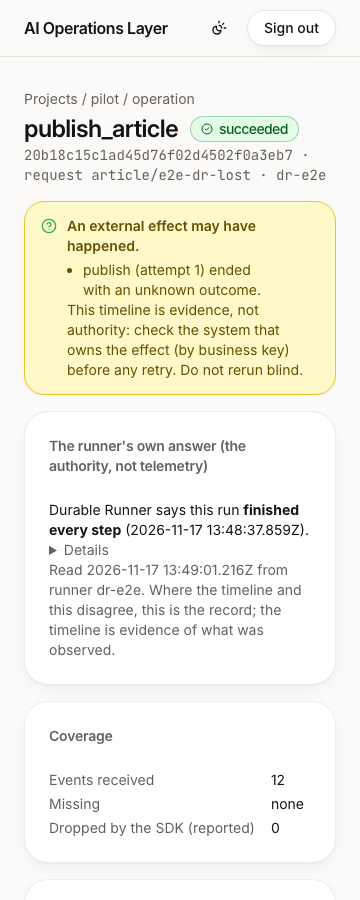
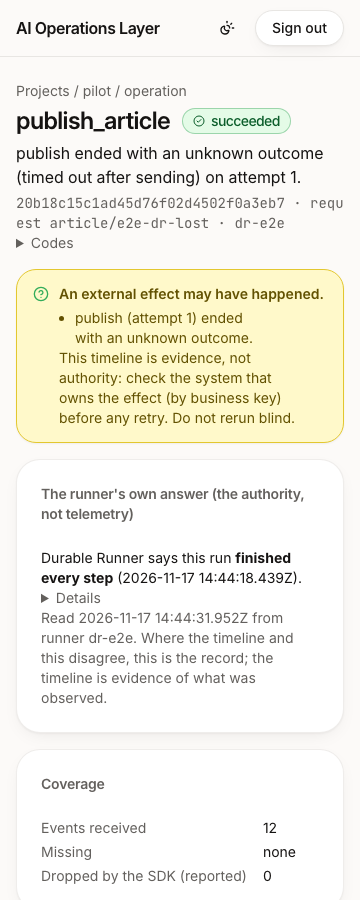
Console: one line says what happened; copy slips fixed
Under an operation's title, one plain sentence now says what happened, from
the steps the timeline holds: "validate failed 5 times (invalid output): …",
"publish ended with an unknown outcome (timed out after sending) on attempt
1.", "Every step succeeded: 4 steps, 4 attempts.", "Cancelled on request…",
or which step never reported how it ended. It is evidence; the runner's
card beside it stays the record. Counts agree with their nouns ("1 step
retried"), and a one-event gap reads "#4", not "#4–#4".

Test: a new journey in usable.spec.ts reads the line for a failure, a lost
reply, a complete run and a cancelled run, and checks the copy; it failed
before the change (no such line). Screenshots in docs/screens/ are
refreshed for U1–U3.

Review U3 (2026-11-17).

diff --git a/apps/console/src/routes/p/[project]/op/[id]/+page.svelte b/apps/console/src/routes/p/[project]/op/[id]/+page.svelte
@@ -5,7 +5,7 @@
 	import { Table, TableBody, TableCell, TableHead, TableHeader, TableRow } from '@aiops/ui/ui/table';
 	import { Tooltip, TooltipContent, TooltipProvider, TooltipTrigger } from '@aiops/ui/ui/tooltip';
 	import { api, type Result } from '#lib/api.js';
-	import { eventTypeText, micros, money, short, statusCodes, time, value } from '#lib/format.js';
+	import { count, eventTypeText, micros, money, outcomeDetail, short, statusCodes, statusText, time, value } from '#lib/format.js';
 	import type { AttemptView, Authority, EntryView, GapView, StepView, Timeline } from '#lib/types.js';
 	import StatusBadge from '#lib/components/StatusBadge.svelte';
 	import Notice from '#lib/components/Notice.svelte';
@@ -60,6 +60,49 @@
 	// details truncate instead, with the full text on hover (review N4).
 	const EVENT_COLUMNS =
 		'grid grid-cols-[12rem_4.5rem_23rem_minmax(7rem,1fr)_2.5rem_8rem_minmax(6rem,14rem)] gap-3 px-3';
+	// One line under the title: what happened, from the steps the timeline holds (review
+	// U3). Evidence, not authority: the runner's card beside it is the record.
+	function whatHappened(t: Timeline): string {
+		const name = (s: StepView) => s.name ?? 'a step whose name was not observed';
+		const times = (n: number) => (n === 1 ? 'once' : n === 2 ? 'twice' : `${n} times`);
+		const attempts = t.steps.reduce((n, s) => n + s.attempts.length, 0);
+		const lastOf = (s: StepView) => s.attempts[s.attempts.length - 1];
+		const failedStep = [...t.steps].reverse().find((s) => lastOf(s)?.state === 'failed');
+		const unknown = t.steps.flatMap((s) => s.attempts.filter((a) => a.state === 'uncertain').map((a) => ({ s, a })))[0];
+		const unfinished = [...t.steps].reverse().find((s) => lastOf(s)?.finish_observed === false);
+		const said: string[] = [];
+		if (statusText(t.status) === 'cancelled') {
+			said.push('Cancelled on request; a cancel never undoes what already happened.');
+		} else if (t.status.state === 'conflicting') {
+			said.push('The hosts declared different outcomes; ask the system that owns the work.');
+		} else if (t.status.state === 'failed' && failedStep) {
+			const fails = failedStep.attempts.filter((a) => a.state === 'failed');
+			const last = fails[fails.length - 1]!;
+			const why = last.error_message ?? last.error_code;
+			said.push(`${name(failedStep)} failed ${times(fails.length)} (${outcomeDetail(last)})${why ? `: ${why}` : ''}.`);
+		} else if (t.status.state === 'failed') {
+			said.push(`The host declared it failed (${outcomeDetail(t.status)}).`);
+		}
+		if (unknown && !(t.status.state === 'failed' && failedStep)) {
+			said.push(
+				`${name(unknown.s)} ended with an unknown outcome (${outcomeDetail(unknown.a)}) on attempt ${unknown.a.attempt}.`
+			);
+		}
+		if (t.status.state === 'no_finish_observed') {
+			said.push(
+				unfinished
+					? `No finish observed; ${name(unfinished)} (attempt ${lastOf(unfinished)!.attempt}) never reported how it ended.`
+					: 'No finish observed.'
+			);
+		}
+		if (said.length === 0 && t.status.state === 'succeeded') {
+			said.push(`Every step succeeded: ${count(t.steps.length, 'step', 'steps')}, ${count(attempts, 'attempt', 'attempts')}.`);
+		} else if (said.length === 0) {
+			said.push(`${statusText(t.status)[0]!.toUpperCase()}${statusText(t.status).slice(1)}.`);
+		}
+		if (t.flags.retried_steps > 0) said.push(`${count(t.flags.retried_steps, 'step was', 'steps were')} retried.`);
+		return said.join(' ');
+	}
 	const gapText = (g: GapView) => `${GAP_TEXT[g.kind] ?? g.kind}${g.reason ? ` (${g.reason})` : ''}`;
 	const eventText = (e: EntryView) =>
 		`${eventTypeText(e.type)}${e.name ? ` · ${e.name}` : ''}${e.attempt ? ` · attempt ${e.attempt}` : ''}`;
@@ -111,6 +154,7 @@
 	<h1 class="mt-1 flex flex-wrap items-center gap-3 text-2xl font-semibold tracking-tight">
 		{t.name ?? 'Operation (name not observed)'} <StatusBadge status={t.status} />
 	</h1>
+	<p class="mt-1 mb-1" data-testid="what-happened"><bdi>{whatHappened(t)}</bdi></p>
 	<p class="font-mono text-xs break-all text-muted-foreground">
 		{t.operation_id}{t.request_id ? ` · request ${t.request_id}` : ''}{t.release ? ` · release ${t.release}` : ''}{t.deployment
 			? ` · ${t.deployment}`
@@ -248,7 +292,11 @@
 		<Card>
 			<CardHeader><CardTitle class="text-sm text-muted-foreground">Attempts</CardTitle></CardHeader>
 			<CardContent class="text-sm">
-				{t.flags.failed_attempts} failed · {t.flags.uncertain_attempts} uncertain · {t.flags.retried_steps} steps retried
+				{t.flags.failed_attempts} failed · {t.flags.uncertain_attempts} uncertain · {count(
+					t.flags.retried_steps,
+					'step',
+					'steps'
+				)} retried
 				<div class="text-muted-foreground">Late events: {t.flags.late_events}</div>
 			</CardContent>
 		</Card>
@@ -357,7 +405,11 @@
 		</p>
 	{:else}
 		{#snippet gapWhere(g: GapView)}
-			{#if g.op_seq_from !== undefined}#{g.op_seq_from}{g.op_seq_to !== undefined ? `–#${g.op_seq_to}` : ' onwards'}{/if}
+			{#if g.op_seq_from !== undefined}#{g.op_seq_from}{g.op_seq_to === undefined
+					? ' onwards'
+					: g.op_seq_to === g.op_seq_from
+						? ''
+						: `–#${g.op_seq_to}`}{/if}
 			{#if g.from}{time(g.from)} – {time(g.to)}{/if}
 		{/snippet}
 		{#if viewport.narrow}

diff --git a/apps/console/tests/usable.spec.ts b/apps/console/tests/usable.spec.ts
@@ -154,6 +154,23 @@ test('outcomes read in plain words, with the codes one click away', async ({ pag
 	await codesIn('the operations list');
 });
 
+test('an operation says in one line what happened, in plain English', async ({ page }) => {
+	await signIn(page);
+	const said = page.getByTestId('what-happened');
+	await page.goto(`/console/p/pilot/op/${await opIdOf(page, DR_INVALID)}`);
+	await expect(said).toHaveText(/^validate failed 5 times \(invalid output\)/);
+	await page.goto(`/console/p/pilot/op/${await opIdOf(page, DR_LOST)}`);
+	await expect(said).toHaveText(/^publish ended with an unknown outcome \(timed out after sending\) on attempt 1/);
+	await page.goto(`/console/p/pilot/op/${await opIdOf(page, DR_OK)}`);
+	await expect(said).toHaveText(/^Every step succeeded: 4 steps, 4 attempts\.$/);
+	await page.goto(`/console/p/pilot/op/${await opIdOf(page, DR_CANCEL)}`);
+	await expect(said).toHaveText(/^Cancelled on request/);
+	// Copy: counts agree with their nouns, and a one-event gap is one number.
+	await page.goto(`/console/p/pilot/op/${await opIdOf(page, DR_RESTART)}`);
+	await expect(page.locator('main')).not.toContainText(/\b1 steps\b/);
+	await expect(page.locator('main')).not.toContainText(/#(\d+)–#\1\b/);
+});
+
 for (const scheme of ['light', 'dark'] as const) {
 	test.describe(`${scheme} scheme`, () => {
 		test.use({ colorScheme: scheme });

diff --git a/apps/console/src/lib/format.ts b/apps/console/src/lib/format.ts
@@ -73,6 +73,18 @@ export function statusText(s: { state: string; class?: string; reason?: string; 
 	return detail ? `${stateText(s.state)}: ${detail}` : stateText(s.state);
 }
 
+/** The words after the colon in `statusText` ("invalid output"), or "" when there are none. */
+export function outcomeDetail(s: { state: string; class?: string; reason?: string; code?: string }): string {
+	const text = statusText(s);
+	const colon = text.indexOf(': ');
+	return colon < 0 ? '' : text.slice(colon + 2);
+}
+
+/** "1 step", "2 steps". */
+export function count(n: number, one: string, many: string): string {
+	return `${n} ${n === 1 ? one : many}`;
+}
+
 /** The codes behind a status, for a details toggle or a tooltip. */
 export function statusCodes(s: { state: string; class?: string; reason?: string; code?: string }): string {
 	return [
